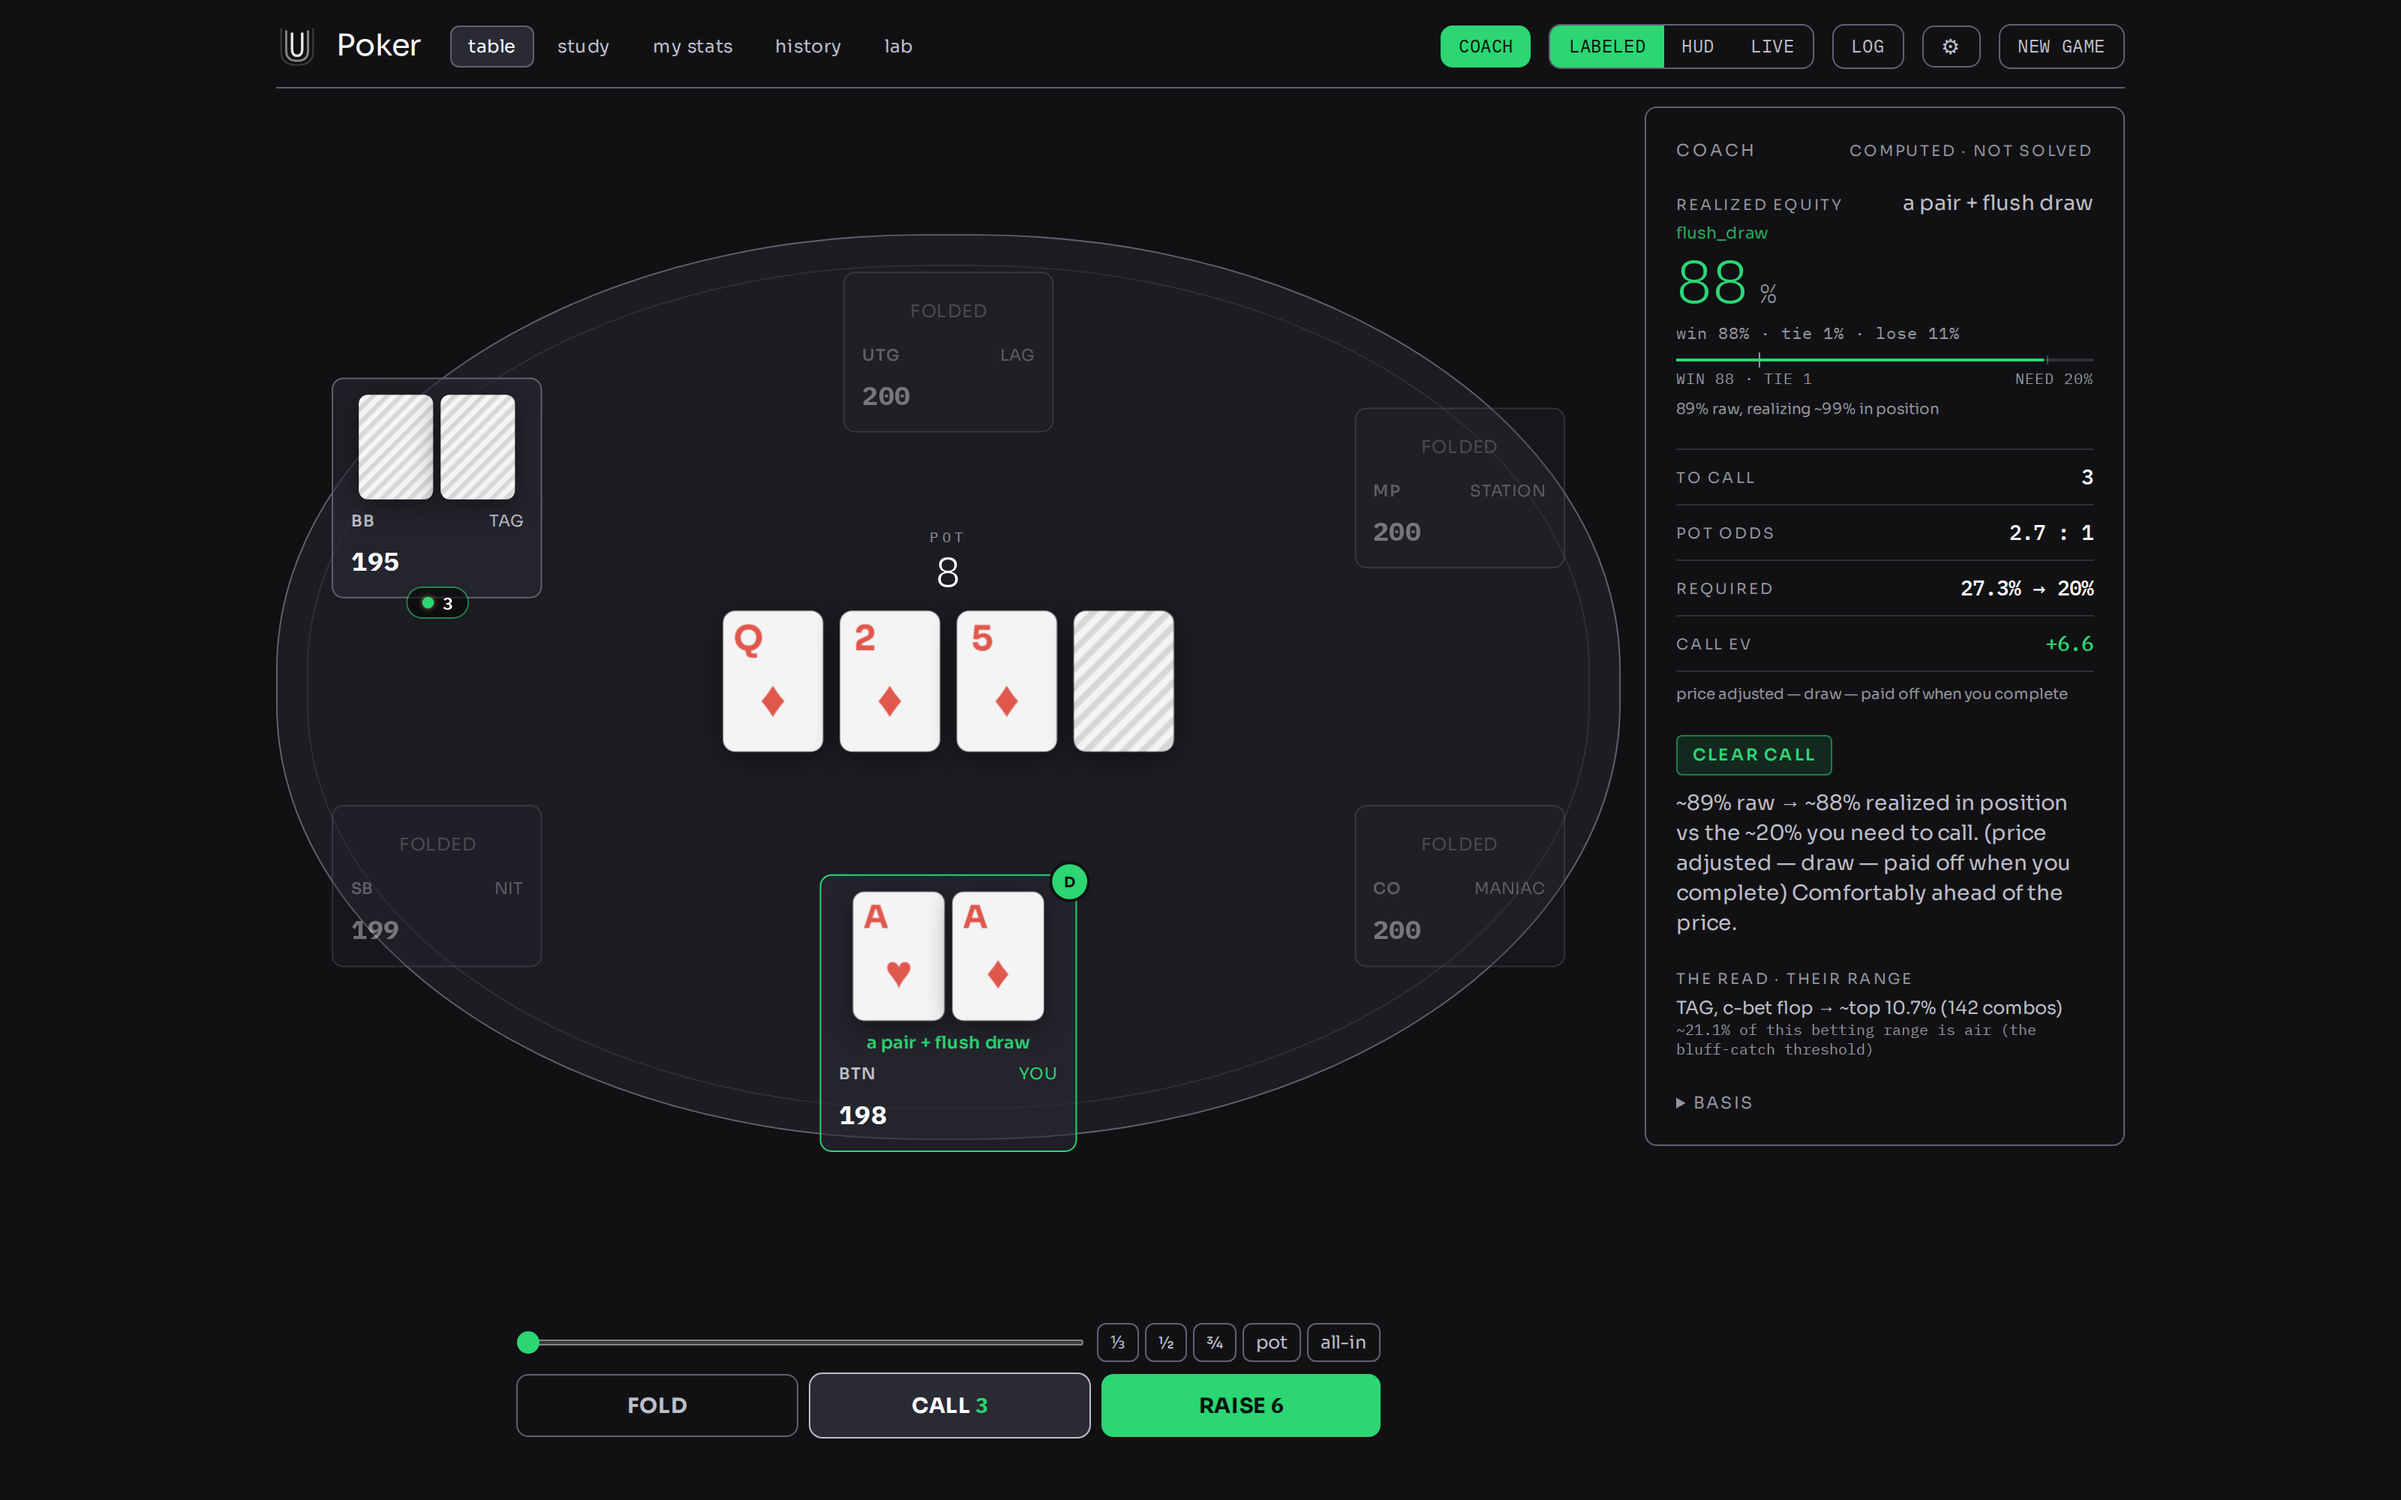
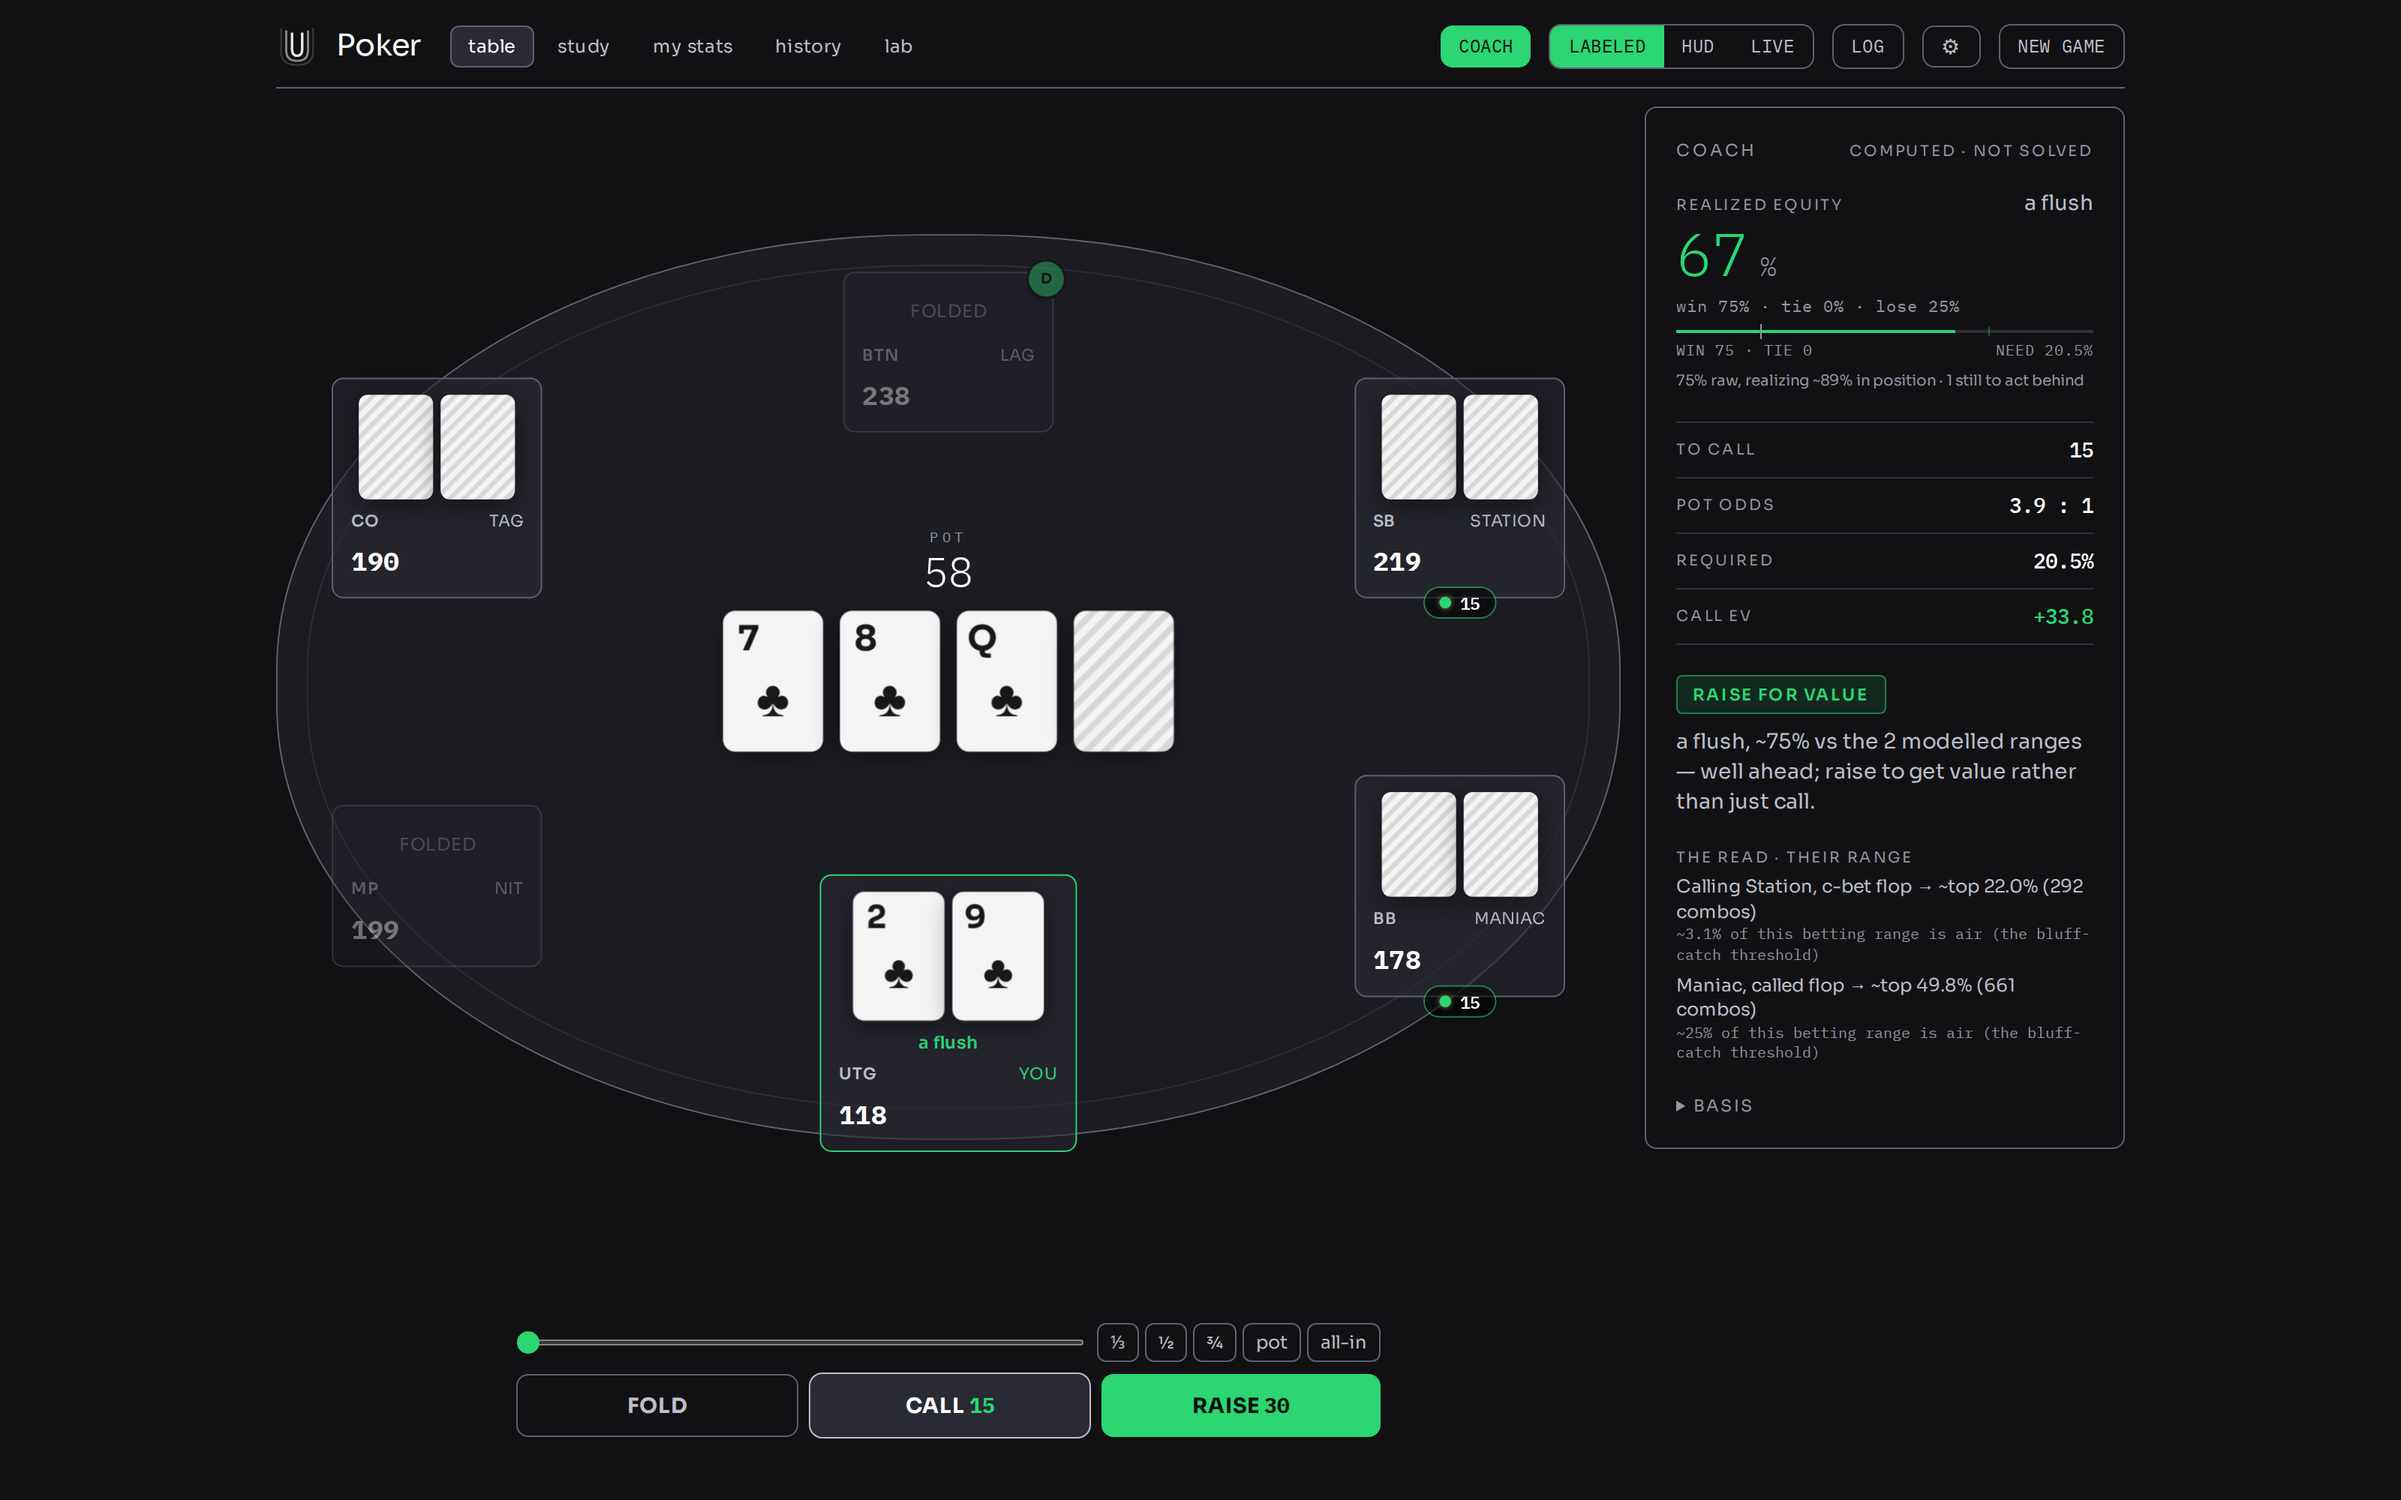
Recapture the table screenshot and update the test counts

diff --git a/README.md b/README.md
@@ -17,10 +17,11 @@ solver and does not claim to be.
 
 ![The table with the coach open](docs/screenshots/table-coach.png)
 
-The table with the live coach open. Holding A♥A♦ on a Q♦ 2♦ 5♦ flop, the panel shows
-realised equity against the villain's conditioned range, the price being offered, the EV
-of the call, and the read the range came from - here a TAG that c-bet the flop, narrowed
-to the top ~10.7% of hands.
+The table with the live coach open. Holding 2♣9♣ on a 7♣ 8♣ Q♣ flop - a made flush -
+against a Calling Station and a Maniac who have both bet, with one player still to act
+behind. The coach discounts 75% raw equity to 67% realised, prices the call exactly, and
+says to raise for value rather than just call. Underneath is the action-conditioned range
+each number was computed against.
 
 ![The bot lab](docs/screenshots/lab.png)
 
@@ -139,7 +140,7 @@ Three independent checks, all in [`test_lab_and_cfr.py`](backend/tests/test_lab_
 
 ## What the tests assert
 
-**107 tests**, run with `.venv/bin/python -m pytest`. They are not smoke tests; the
+**110 tests**, run with `.venv/bin/python -m pytest`. They are not smoke tests; the
 majority check a specific numeric or structural property:
 
 | Area | Tests | Examples of what is asserted |
@@ -148,7 +149,7 @@ majority check a specific numeric or structural property:
 | `test_engine.py` | 13 | hand-ranking order, split pots when the board plays, three-way side-pot distribution, legal actions by position and facing bets, short-stack all-in, illegal actions rejected, and **chip conservation across randomised complete hands** |
 | `test_lab_and_cfr.py` | 12 | the three CFR checks above, plus the lab's report structure, hand caps, and that loosening a calldown knob actually raises the measured WTSD |
 | `test_api.py` | 10 | endpoint contracts end to end |
-| `test_coach.py` | 9 | that a value hand ahead raises rather than folds, that a marginal out-of-position call flips to a fold once equity is realised rather than raw, and that every verdict string carries a tone |
+| `test_coach.py` | 12 | that a hand well ahead raises rather than just calling - judged on equity, not on the made tier alone - that the coach never suggests a bet or raise the engine would reject, that a marginal out-of-position call flips to a fold once equity is realised rather than raw, and that every verdict string carries a tone |
 | `test_villain_model.py` | 6 | that a flop bet narrows the range, barrelling de-bluffs it, a 3-bet is tighter than an open, and the river bluff slice is low and ordered by archetype |
 | remainder | 36 | bot/sim behaviour, implied-odds spots, leak detection, replay reconstruction, calibration |
 
@@ -174,7 +175,7 @@ the module map, [STRATEGY.md](STRATEGY.md) for the poker content, and
 cd backend
 python3 -m venv .venv
 .venv/bin/python -m pip install -e ".[dev]"
-.venv/bin/python -m pytest                        # 107 tests
+.venv/bin/python -m pytest                        # 110 tests
 .venv/bin/uvicorn poker.api.app:app --reload      # http://127.0.0.1:8000/health, docs at /docs
 ```
 
